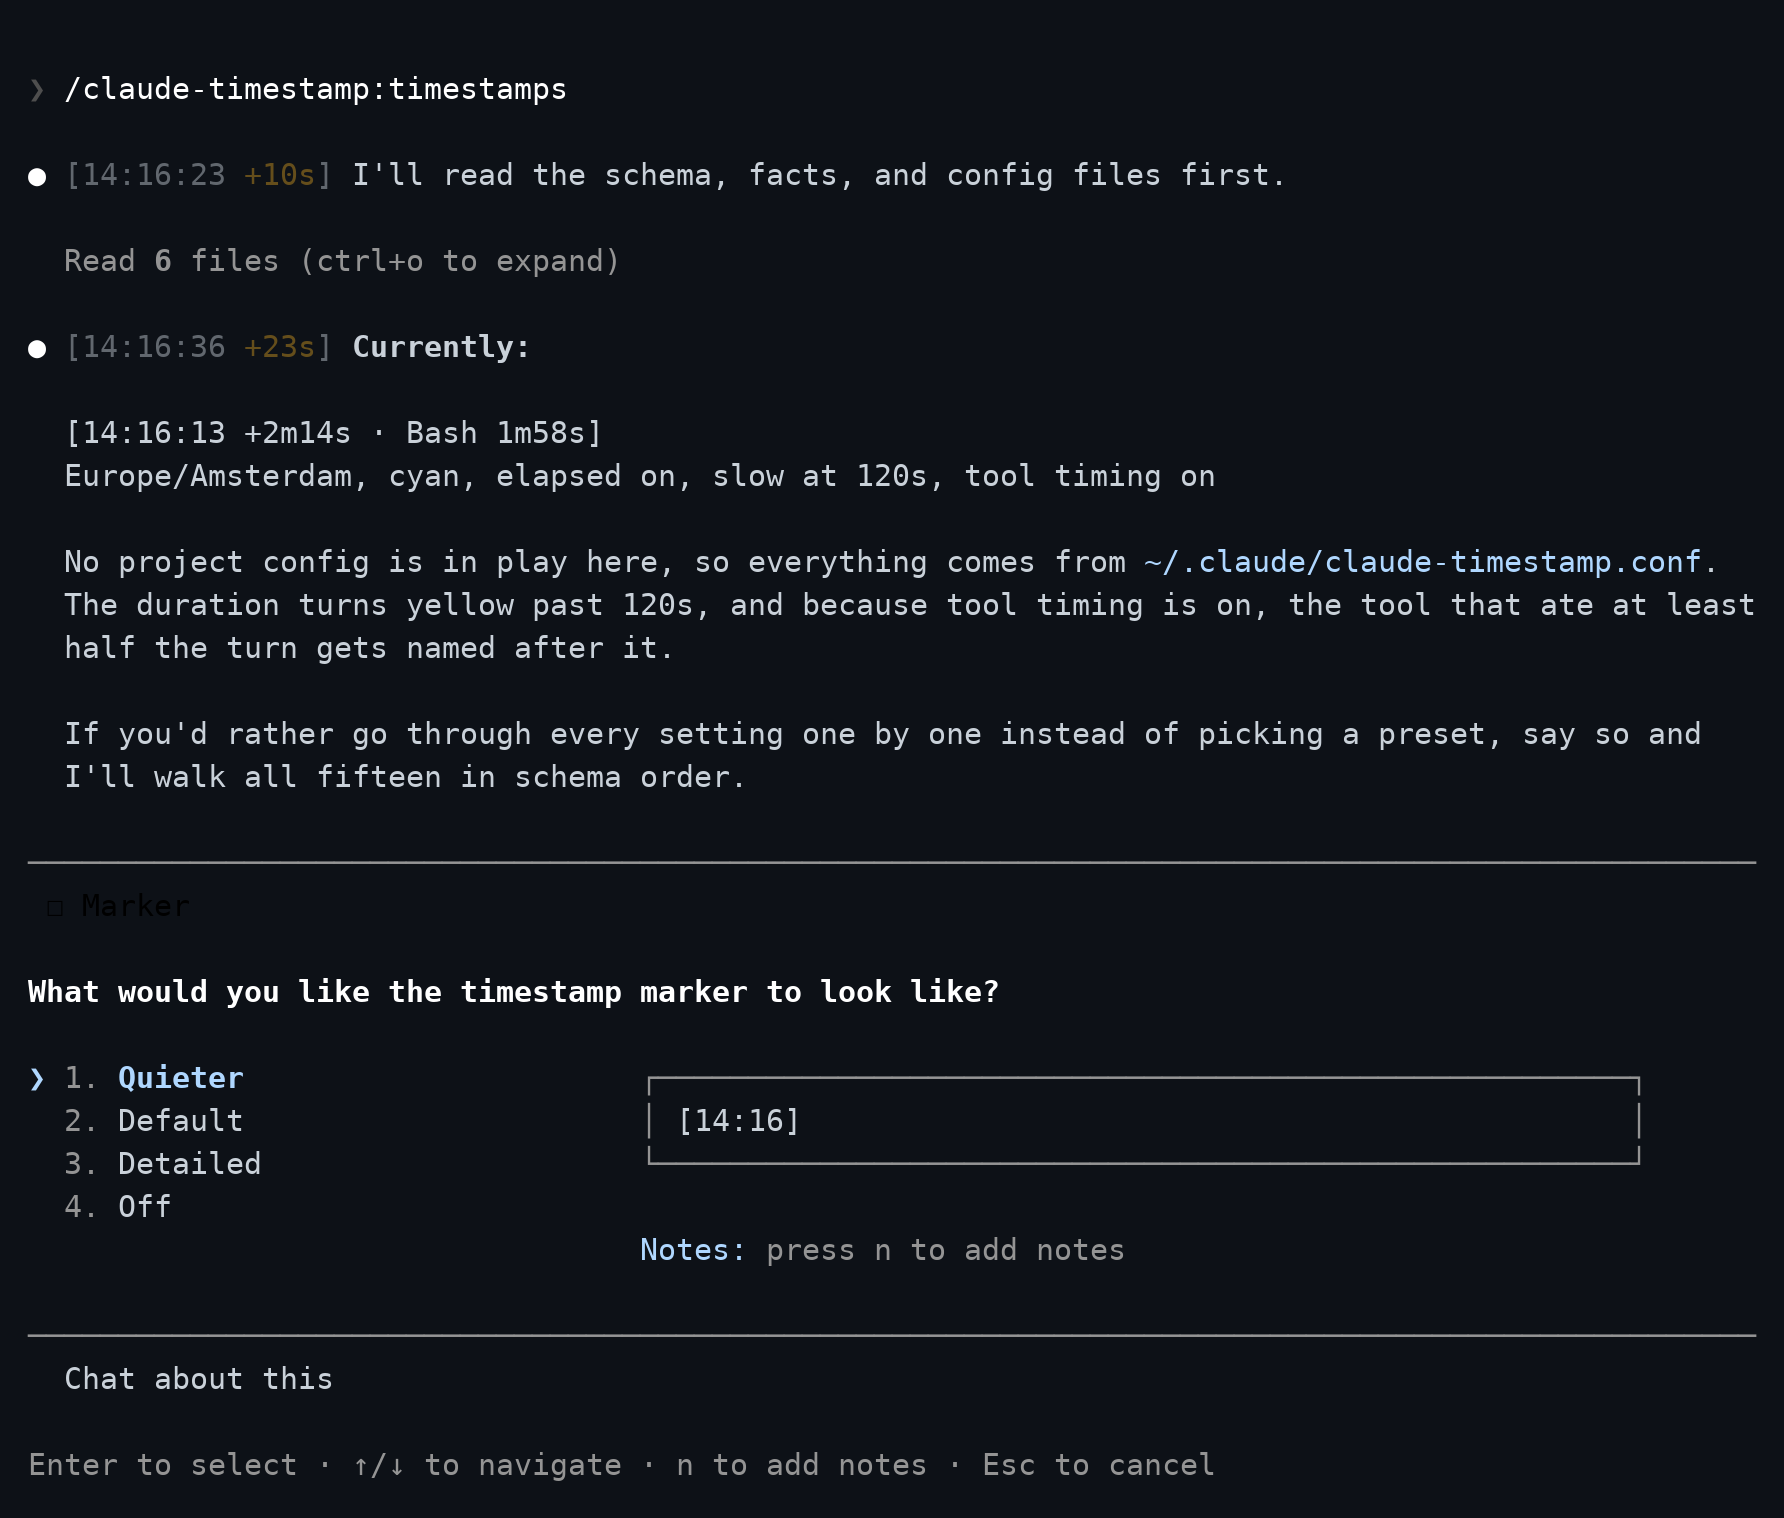
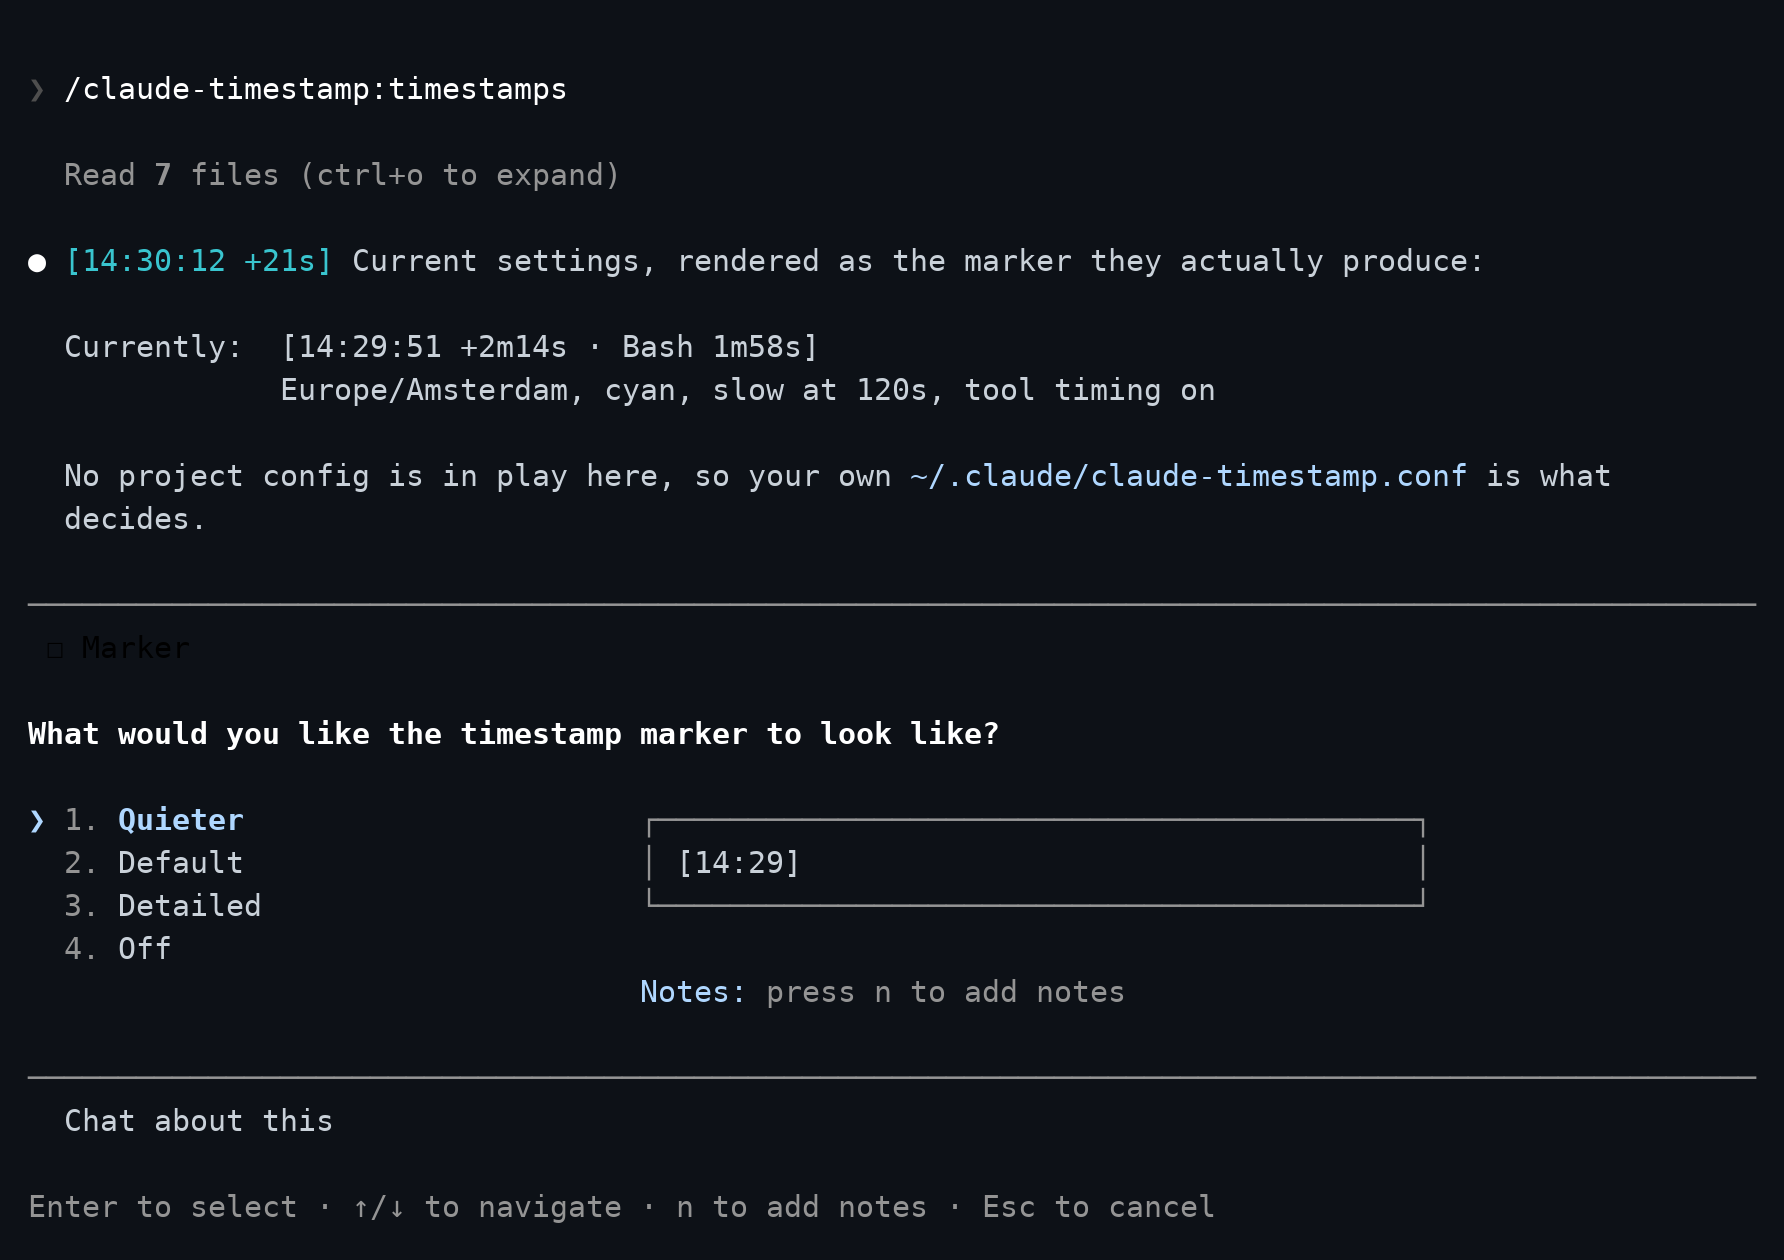
docs: fix the picker screenshot and its wording
- Recapture assets/picker.png without overriding
  CLAUDE_TIMESTAMP_CONFIG in shot_picker, so the hook-drawn marker and
  the /timestamps prompt's own text read the same config file instead
  of disagreeing.
- Correct README's flags sentence: /timestamps no longer touches
  setup.sh at all, so describe the flags as a terminal-only capability.
- Note in README that the picker shot also needs a login and spends
  tokens.
- Complete the screenshots.py module docstring (picker and stats were
  missing from the shot list and the captured-from-the-real-thing
  summary).
- Document shot_picker's reproducibility caveat: its timings were only
  validated against an already-trusted work directory, since this
  tooling always runs inside a nested session exempt from the
  workspace-trust dialog a fresh top-level run would hit.

diff --git a/tools/screenshots/screenshots.py b/tools/screenshots/screenshots.py
@@ -1,15 +1,17 @@
 """Regenerate the screenshots in assets/.
 
-Both shots are captured from the real thing rather than mocked up. The hero
-shot drives an actual Claude Code session inside a pty, and the doctor shot
-runs the real setup script. Nothing here fabricates output.
+Every shot is captured from the real thing rather than mocked up. The hero and
+picker shots each drive an actual Claude Code session inside a pty. The wizard
+shot runs the real setup script through a pty too, since it needs a TTY. The
+doctor and stats shots run the real setup script directly and capture its
+output. Nothing here fabricates output.
 
 pyte is a terminal emulator, so what gets rendered is whatever was actually
 painted, escape codes and all. It models bold and italics but has no notion of
 SGR 2 (dim), which is exactly what this plugin uses by default, so Screen is
 subclassed below to track it.
 
-Usage:  python screenshots.py [hero|wizard|doctor|all]
+Usage:  python screenshots.py [hero|picker|wizard|doctor|stats|all]
 
 There is deliberately no shot of the end-of-session summary. Producing one
 means exiting the TUI under automation, and it does not go quietly: typing
@@ -243,13 +245,39 @@ def shot_picker():
     pty. The picker is an interactive widget rather than program output, so the
     capture deliberately stops while the question is still on screen and never
     answers it.
+
+    Unlike every other shot here, this one does not set CLAUDE_TIMESTAMP_CONFIG.
+    That variable is honoured by the hooks that paint the transcript markers,
+    but /timestamps is a prompt: it reads the literal path
+    ~/.claude/claude-timestamp.conf and cannot be redirected by the
+    environment. Pointing the hooks at a demo config while /timestamps read the
+    real one produced a frame that visibly disagreed with itself -- the hooks'
+    duration was coloured past a demo SLOW_AFTER while the picker's own text
+    named the real, much higher, threshold. Leaving the variable unset means
+    both halves read the same file, so the picker shows whatever the real
+    account is actually configured with. That is a mild, known privacy cost,
+    no worse than what the crop below already accepts by publishing the
+    account's real settings as text.
+
+    Reproducibility warning: the keys/settle/total below were tuned against a
+    work directory `claude` had already been run in before, in a nested child
+    session (this repo's own tooling runs inside one), which is exempt from
+    the interactive workspace-trust dialog a normal top-level session shows
+    the first time it sees a new directory. That exemption made it impossible
+    to observe, from here, what a genuinely first-ever run looks like or to
+    script an answer to a dialog that never rendered. If this shot is ever run
+    against a directory `claude` has never seen -- a clean checkout, a fresh
+    CI runner -- from an ordinary (non-nested) terminal, the first invocation
+    may show that dialog and swallow the typed keys before anything is ready
+    to receive them, producing a capture of nothing but the welcome banner. If
+    that happens: it is the trust dialog, not these timings. Run `claude` once
+    by hand in the work directory below to accept it, then re-run this shot;
+    the directory stays trusted after that.
     """
     if not subprocess.run(["which", "claude"], capture_output=True).returncode == 0:
         raise SystemExit("claude is not on PATH; cannot capture the picker shot.")
     work = WORK / "picker"
     work.mkdir(parents=True, exist_ok=True)
-    conf = work / "config.conf"
-    conf.write_text(DEMO_CONFIG)
 
     # Reading schema.json, the facts file and the config, then rendering the
     # question, takes 40-50s in practice, well past what the brief's starting
@@ -263,7 +291,6 @@ def shot_picker():
         ["claude"],
         keys=[(6.0, "/timestamps"), (7.5, "\r")],
         cols=cols, rows=rows, settle=12, total=100,
-        env={"CLAUDE_TIMESTAMP_CONFIG": str(conf)},
     )
     (work / "picker.raw").write_bytes(raw)
 

diff --git a/README.md b/README.md
@@ -118,7 +118,7 @@ it. The colour list and the result line are rendered by the same code that
 draws the real marker, so a preview cannot drift from what you will actually
 see.
 
-It also takes flags, which is what `/timestamps` uses:
+It also takes flags, so several settings can be set from a terminal in one call:
 
 ```bash
 setup.sh --tz=Asia/Tokyo --display=short --color=dim --slow-after=30
@@ -298,10 +298,11 @@ bash tools/screenshots/make.sh doctor   # just one
 ```
 
 It drives the real programs, the wizard and doctor through a pty and the hero
-shot through an actual Claude Code session, then renders what was painted using
-a terminal emulator. Nothing in those images is mocked up. The hero shot
-therefore needs a working login and spends tokens, and its durations differ
-every run because they are real measurements. Python dependencies install into
+and picker shots through an actual Claude Code session, then renders what was
+painted using a terminal emulator. Nothing in those images is mocked up. The
+hero and picker shots therefore need a working login and spend tokens, and the
+hero shot's durations differ every run because they are real measurements.
+Python dependencies install into
 a virtualenv beside the script.
 
 ## Releases
